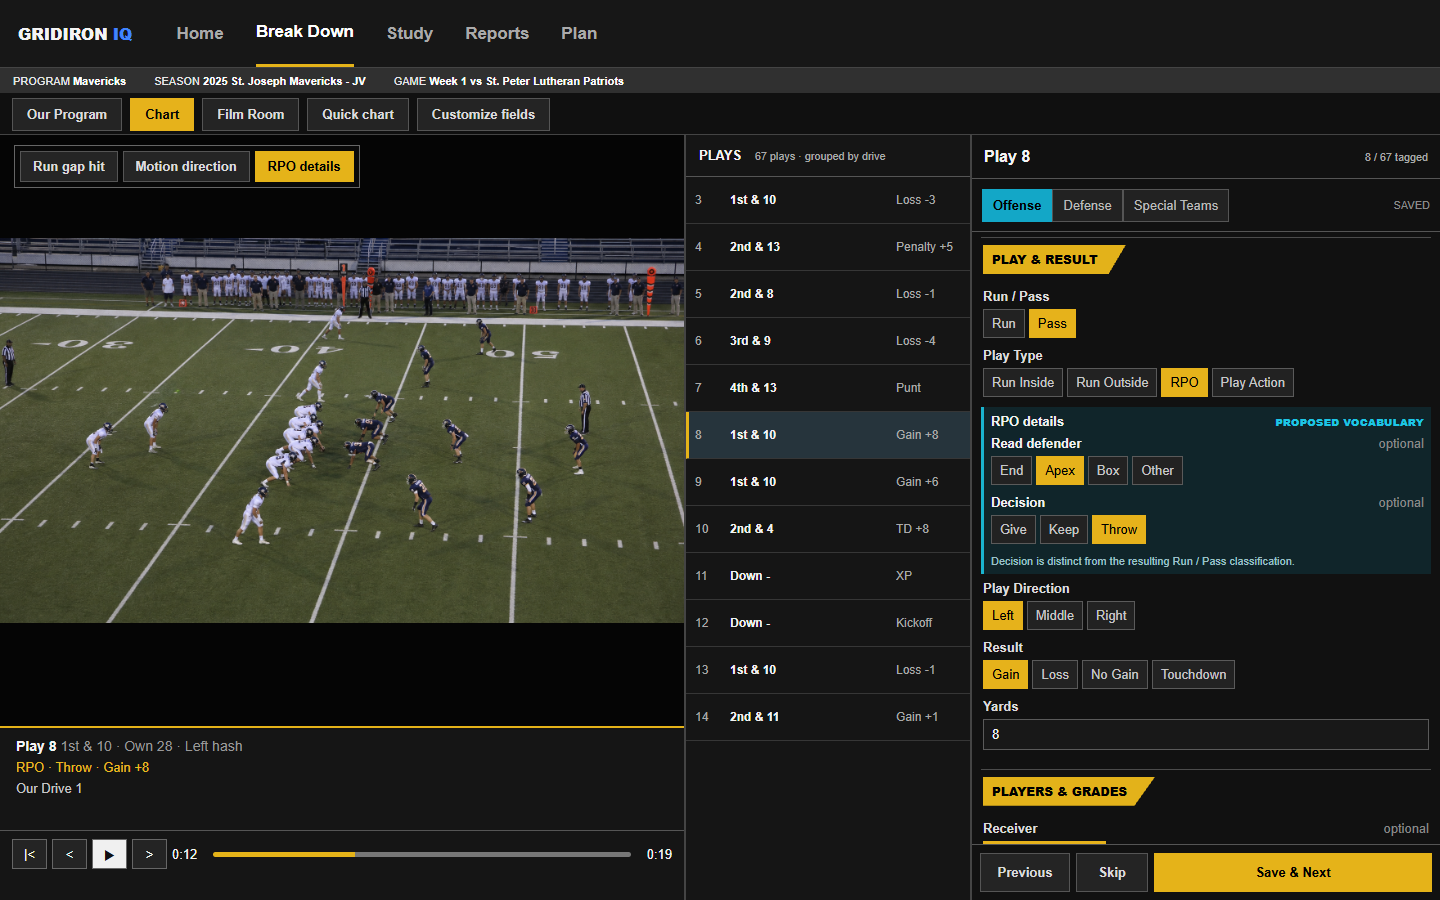
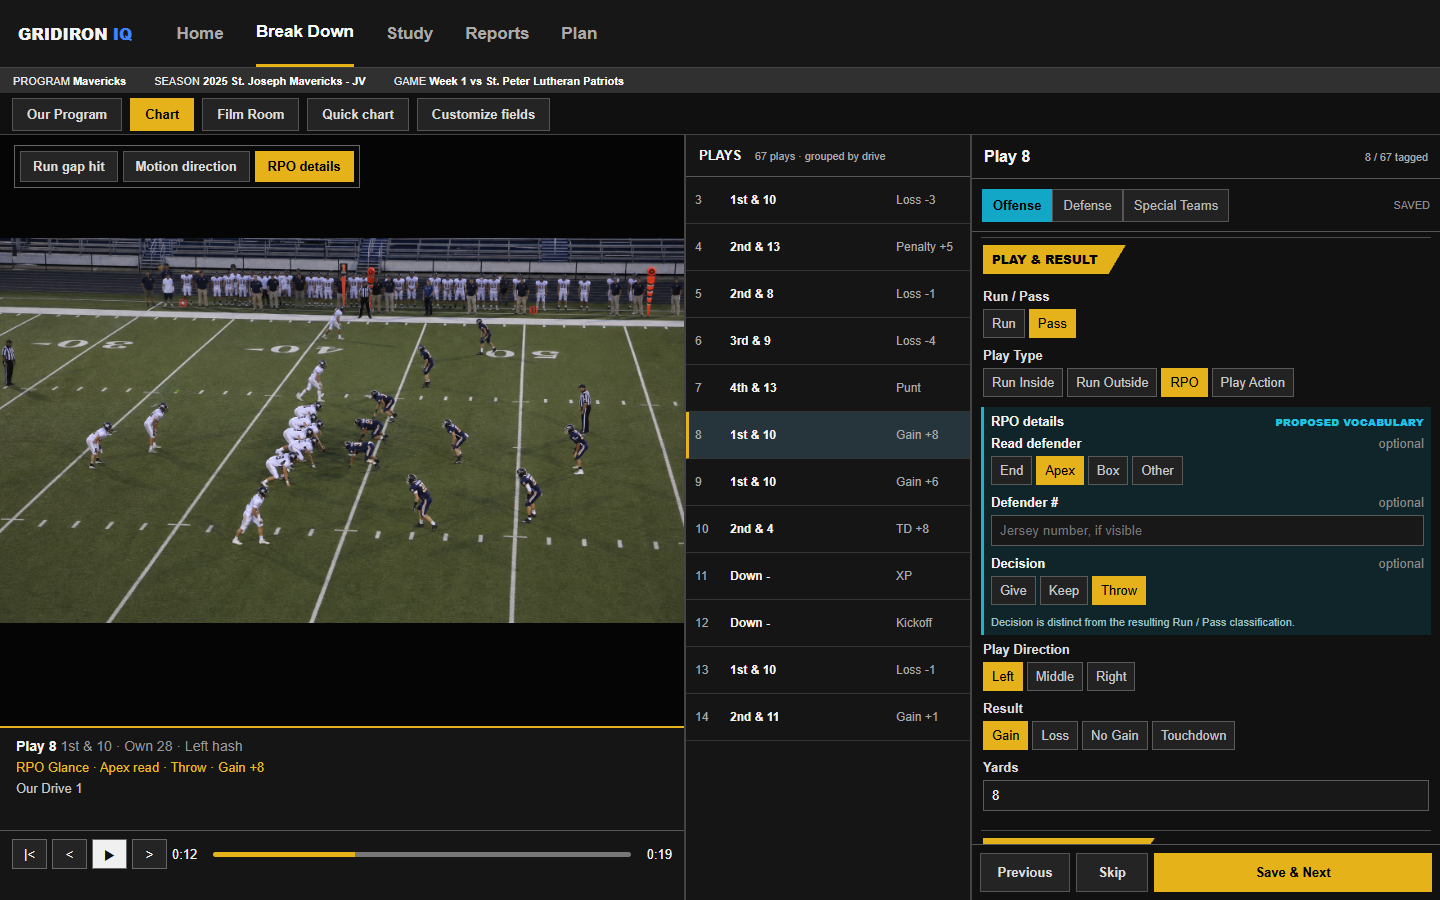
Refine charting comps with competitor workflow references

Changed region(s): [[0.6562, 0.5289, 1.0, 0.9333], [0.0312, 0.84, 0.1875, 0.8711], [0.9688, 0.9022, 1.0, 0.9333]]

diff --git a/design-comps/breakdown-charting-2026-09-27/index.html b/design-comps/breakdown-charting-2026-09-27/index.html
@@ -96,7 +96,7 @@
       <div class="section"><span class="section-title cyan">DEFENSE FACED</span><div class="field"><div class="field-label">Front</div><div class="chips"><button class="chip">4-3</button><button class="chip on">5-2</button><button class="chip">3-4</button><button class="chip">Nickel</button></div></div><div class="field"><div class="field-label">Coverage</div><div class="chips"><button class="chip">Cover 1</button><button class="chip on">Cover 3</button><button class="chip">Cover 4</button></div></div></div>
       <div class="section"><span class="section-title">PLAY &amp; RESULT</span><div class="field"><div class="field-label">Run / Pass</div><div class="chips"><button class="chip on">Run</button><button class="chip">Pass</button></div></div><div class="field"><div class="field-label">Play Type</div><div class="chips"><button class="chip on">Run Inside</button><button class="chip">Run Outside</button><button class="chip">RPO</button><button class="chip">Play Action</button></div></div>
       <div class="scenario" data-scenario="gap"><div class="new-field"><div class="field-label"><span>Gap hit <span class="optional">optional</span></span><span class="tag">Proposed</span></div><div class="chips"><button class="chip">Left D</button><button class="chip">Left C</button><button class="chip">Left B</button><button class="chip on">Left A</button><button class="chip">Right A</button><button class="chip">Right B</button><button class="chip">Right C</button><button class="chip">Right D</button><button class="chip">Other lane</button></div><div class="help">Actual lane hit, separate from the called play and play direction.</div></div></div>
-      <div class="scenario" data-scenario="rpo"><div class="new-field"><div class="field-label"><span>RPO details</span><span class="tag">Proposed vocabulary</span></div><div class="field"><div class="field-label">Read defender <span class="optional">optional</span></div><div class="chips"><button class="chip">End</button><button class="chip on">Apex</button><button class="chip">Box</button><button class="chip">Other</button></div></div><div class="field"><div class="field-label">Decision <span class="optional">optional</span></div><div class="chips"><button class="chip">Give</button><button class="chip">Keep</button><button class="chip on">Throw</button></div></div><div class="help">Decision is distinct from the resulting Run / Pass classification.</div></div></div>
+      <div class="scenario" data-scenario="rpo"><div class="new-field"><div class="field-label"><span>RPO details</span><span class="tag">Proposed vocabulary</span></div><div class="field"><div class="field-label">Read defender <span class="optional">optional</span></div><div class="chips"><button class="chip">End</button><button class="chip on">Apex</button><button class="chip">Box</button><button class="chip">Other</button></div></div><div class="field"><div class="field-label">Defender # <span class="optional">optional</span></div><input class="input" value="" placeholder="Jersey number, if visible" aria-label="Read defender jersey number"></div><div class="field"><div class="field-label">Decision <span class="optional">optional</span></div><div class="chips"><button class="chip">Give</button><button class="chip">Keep</button><button class="chip on">Throw</button></div></div><div class="help">Decision is distinct from the resulting Run / Pass classification.</div></div></div>
       <div class="field"><div class="field-label">Play Direction</div><div class="chips"><button class="chip on">Left</button><button class="chip">Middle</button><button class="chip">Right</button></div></div><div class="field"><div class="field-label">Result</div><div class="chips"><button class="chip on">Gain</button><button class="chip">Loss</button><button class="chip">No Gain</button><button class="chip">Touchdown</button></div></div><div class="field"><div class="field-label">Yards</div><input class="input" value="8" aria-label="Yards"></div></div>
       <div class="section"><span class="section-title">PLAYERS &amp; GRADES</span><div class="field"><div class="field-label"><span id="player-role">Ball Carrier</span> <span class="optional">optional</span></div><div class="chips"><button class="chip on" id="player-name">#42 Leo Johnson</button></div></div></div>
       </div><div class="save"><button>Previous</button><button>Skip</button><button class="primary">Save &amp; Next</button></div></section>
@@ -104,11 +104,20 @@
   </div>
   <nav class="review-tabs" aria-label="Comp views"><button data-view="gap" class="active">Run gap hit</button><button data-view="motion">Motion direction</button><button data-view="rpo">RPO details</button></nav>
   <script>
-    const views = {gap:'26 Blast · Run inside · Gain +8', motion:'Jet motion · Run inside · Gain +8', rpo:'RPO · Throw · Gain +8'};
+    let currentView='gap';
+    function selected(group) { return document.querySelector(group+' .chip.on')?.textContent || 'Uncharted'; }
+    function updateSummary() {
+      let detail;
+      if (currentView==='gap') detail=`26 Blast · ${selected('[data-scenario="gap"]')} gap hit`;
+      if (currentView==='motion') detail=`Jet motion · ${selected('[data-scenario="motion"] .field:nth-of-type(2)')} to ${selected('[data-scenario="motion"] .field:nth-of-type(3)')}`;
+      if (currentView==='rpo') detail=`RPO Glance · ${selected('[data-scenario="rpo"] .field:nth-of-type(2)')} read · ${selected('[data-scenario="rpo"] .field:nth-of-type(4)')}`;
+      document.getElementById('film-summary').textContent=detail+' · Gain +8';
+    }
     function show(view) {
+      currentView=view;
       document.querySelectorAll('.review-tabs button').forEach(button => button.classList.toggle('active',button.dataset.view===view));
       document.querySelectorAll('.scenario').forEach(panel => panel.classList.toggle('active',panel.dataset.scenario===view));
-      document.getElementById('film-summary').textContent=views[view];
+      updateSummary();
       document.getElementById('play-call').value=view==='rpo'?'RPO Glance':'26 Blast';
       document.getElementById('jet-chip').classList.toggle('on',view==='motion');
       document.getElementById('player-role').textContent=view==='rpo'?'Receiver':'Ball Carrier';
@@ -128,7 +137,7 @@
       history.replaceState(null,'','#'+view);
     }
     document.querySelectorAll('.review-tabs button').forEach(button => button.addEventListener('click',()=>show(button.dataset.view)));
-    document.querySelectorAll('.new-field .chips').forEach(group => group.addEventListener('click',event => { const button=event.target.closest('button'); if(!button) return; const wasOn=button.classList.contains('on'); group.querySelectorAll('button').forEach(item=>item.classList.remove('on')); if(!wasOn) button.classList.add('on'); }));
+    document.querySelectorAll('.new-field .chips').forEach(group => group.addEventListener('click',event => { const button=event.target.closest('button'); if(!button) return; const wasOn=button.classList.contains('on'); group.querySelectorAll('button').forEach(item=>item.classList.remove('on')); if(!wasOn) button.classList.add('on'); updateSummary(); }));
     show(['gap','motion','rpo'].includes(location.hash.slice(1))?location.hash.slice(1):'gap');
   </script>
 </body>

diff --git a/design-comps/breakdown-charting-2026-09-27/RATIONALE.md b/design-comps/breakdown-charting-2026-09-27/RATIONALE.md
@@ -9,6 +9,7 @@ Open `index.html` and switch between Run gap hit, Motion direction, and RPO deta
 - Run gap hit belongs in Play & Result beside Play Type and Play Direction. It records the actual lane hit, not the called gap. A/B/C/D are paired with left/right, plus Other lane. It is optional and does not change yardage or run classification.
 - Motion path belongs directly after Motion in Our Offensive Look. Start and end are separately optional; both use the offense's left/middle/right perspective. Motion type remains its own tag.
 - RPO details appear only for an RPO play. Read defender and decision are separate from the existing Play Type and Run/Pass result. End/Apex/Box/Other and Give/Keep/Throw are provisional vocabulary.
+- The film detail line echoes the new selection as soon as the view changes, so the coach can verify the tag without scrolling back through the deck. A defender jersey number is an optional RPO detail when it is visible on film; no number is inferred.
 - New chips keep the current deck's text size and use compact vertical padding. There is no separate wizard or modal and no change to Save & Next.
 
 ## Coach decisions before implementation
@@ -19,6 +20,12 @@ Open `index.html` and switch between Run gap hit, Motion direction, and RPO deta
 4. Is the placement and density usable in the live deck at desktop and narrower widths?
 
 Implementation, if approved, needs owned tag definitions, editing/clear semantics, Film Room columns and detail, reporting/export handling, and focused tests. No historical plays should be inferred or backfilled.
+
+## Competitor references
+
+- [QwikCut Advanced Stat Entry](https://support.qwikcut.com/portal/en/kb/articles/football-stat-entry-advanced-22-7-2023) documents a per-clip, editable column workflow. Its listed defaults include Motion Direction (left/right) and RPO as a Play Type; entered values also appear near the video. The comp keeps the coach's requested start and end, which goes beyond that documented motion-direction field.
+- [Hudl's coach-authored custom columns](https://www.hudl.com/blog/3-custom-columns-that-get-you-quick-answers-in-hudl-beta) let staffs chart concepts specific to their scheme. [Another Hudl coach example](https://www.hudl.com/blog/five-useful-custom-columns) uses a defender jersey column. The optional number in this RPO proposal follows that flexible pattern, but the exact RPO vocabulary still needs coach approval.
+- These are public documentation examples, not a claim that either product has this exact three-field design. The comp borrows their quick per-play feedback and extensibility while preserving GridIron IQ's existing Chart deck and Save & Next workflow.
 
 ## Visual check
 
